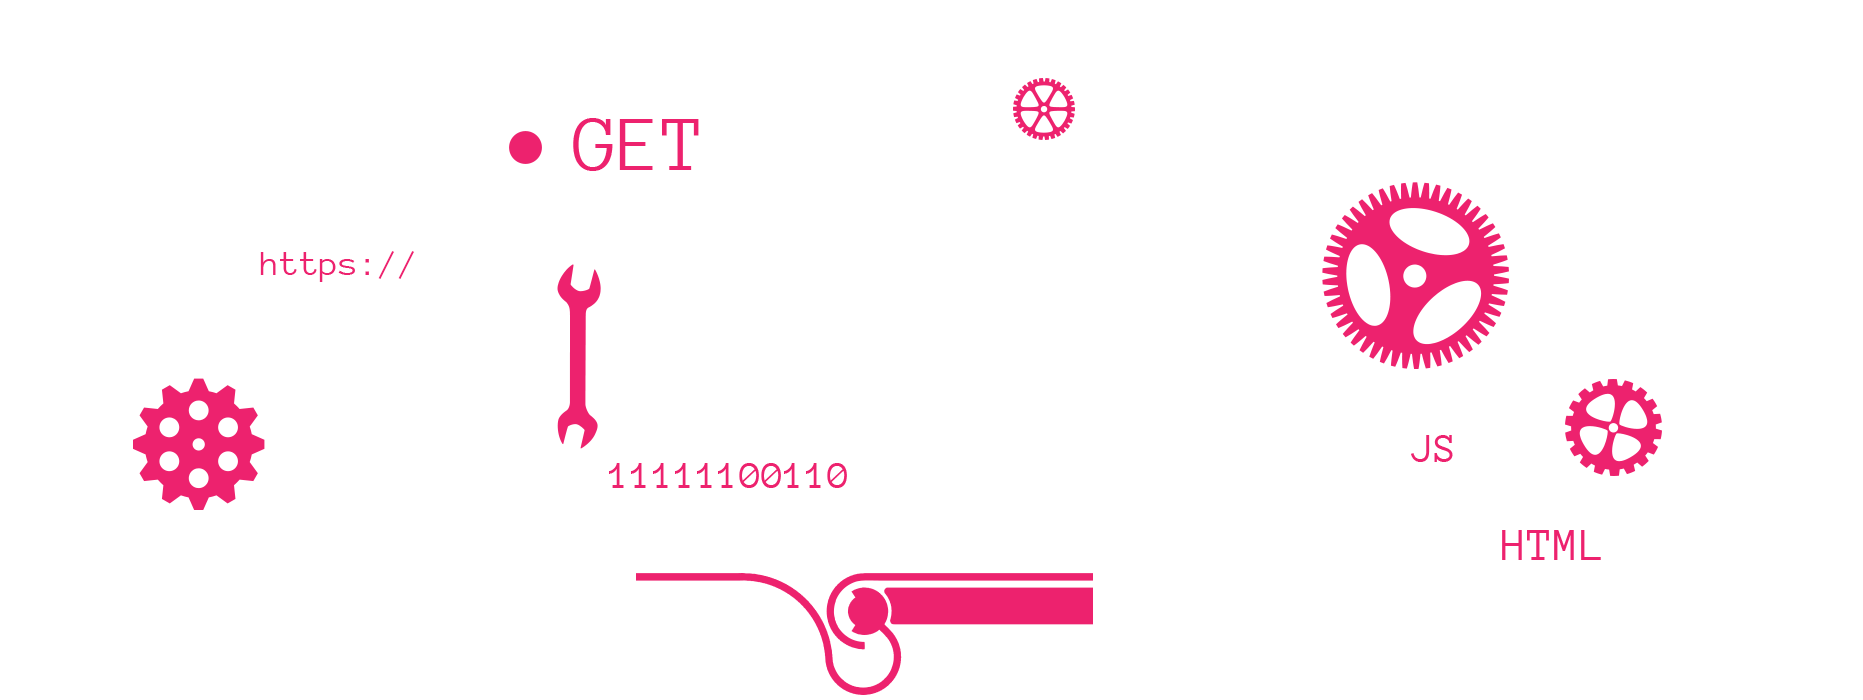
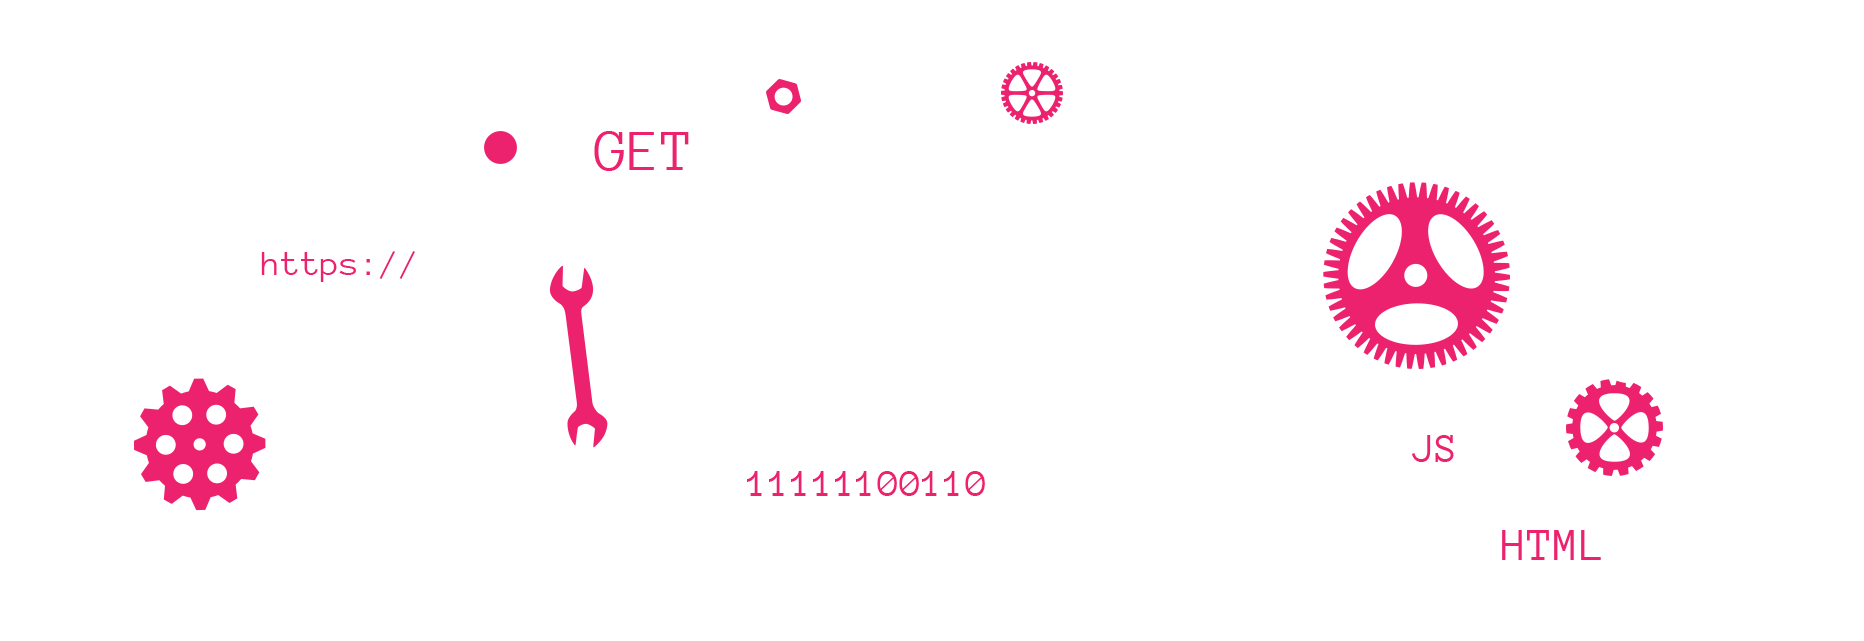
fixing top section images and divs

diff --git a/style.css b/style.css
@@ -1,17 +1,10 @@
-/* Dynamic Insertions */
 
-#user-location, #weather_phrase {
-    color: #ed236f;
-    font-weight: bold;
-}
-
-
-/*-------------------*/
 
 * {
     font-family: 'Anonymous Pro', monospace, Verdana, Geneva, Tahoma, sans-serif !important;
-    font-size: 19px;
 }
+
+
 
 a {
     color: #aed136 !important;
@@ -55,7 +48,7 @@ a:active {
 
 body {
     background-color: #50b0d5 !important;
-
+    font-size: 19px;
   }
 
 h3 {
@@ -221,35 +214,90 @@ section {
     }
 }
 
-/* image sections */
+
+
+/* top section art */
+
+
+/* Dynamic Insertions */
+
+.user-location, .weather_phrase {
+    color: #ed236f;
+    font-weight: bold;
+    font-size: 21px;
+}
+/*-------------------*/
+
+.top-section {
+    height: 490px;
+    width: 100%;
+}
+
+.top-section-container {
+    position: relative;
+    display: flex;
+    top: -40px;
+    align-items: center;
+    justify-content: center;
+    overflow: hidden;
+}
+
 
 .section1-img {
-    position: absolute;
-    left: -200px;
-    top: 5px;
-}
-
-.wrapper {
-    top: 0px;
     position: relative;
-    height: 200px;
+    height: 590px;
 }
 
-
+.user-greeting {
+    position: absolute;
+    width: 428;
+    top: 119px;
+    font-size: 23px !important;
+    background-color: #272822;
+    padding: 30px;
+    color: white !important;
+    height: 242px;
+}
 
 
 @media (max-width: 1000px) {
-    .section1-img {
-        width: 675px;
-        top: 60px;
+
+    .user-location, .weather_phrase {
+        color: #ed236f;
+        font-weight: bold;
+        font-size: 16px;
+    }
+
+    .top-section {
+        height: 360px;
+        width: 100%;
     }
     
-    .wrapper {
+    .top-section-container {
+        position: relative;
+        display: flex;
+        top: 10px;
         align-items: center;
-        text-align: center;
-        width: 100%;
-        top: 0px;
-        margin-left: 35%;
+        justify-content: center;
+        overflow: hidden;
+    }
+    
+    
+    .section1-img {
+        position: relative;
+        height: 380px;
+    }
+    
+    .user-greeting {
+        position: absolute;
+        width: 280px;
         height: 200px;
+        top: 70px;
+        font-size: 17px !important;
+        background-color: #272822;
+        padding: 15px;
+        color: white !important;
+    
     }
 }
+

diff --git a/index.html b/index.html
@@ -19,6 +19,7 @@
     <link rel="icon" type="image/png" sizes="32x32" href="/favicon-32x32.png">
     <link rel="icon" type="image/png" sizes="16x16" href="/favicon-16x16.png">
     <link rel="manifest" href="/site.webmanifest">
+    <script src="greeting.js"></script>
 
 </head>
 
@@ -73,21 +74,38 @@
     <!-- Greeting Text Starts-->
 
     <header>
-
-        <div class="blue-section content-box">
-
-            <div class="grid-top center-text">
-                <div id="user-greeting">
-                    <span id="avisitor"></span><span id="user-location">Hi There</span>!<span
-                        id="weather_phrase"></span> Welcome to my page and thank you
+        <!-- First section starts -->
+        <div class="top-section">
+            <div class="top-section-container">
+                <div id="user-greeting" class="user-greeting">
+                    <span id="avisitor" class="avisitor"></span><span id="user-location" class="user-location">Hi There</span>!<span
+                        id="weather_phrase" class="weather_phrase"></span> Welcome to my page and thank you
                     for stopping by and checking it out!
                 </div>
-                <div class="wrapper">
-                    <img class="section1-img" src="images/section1_backgtoundimg_1.gif" width="900px">
+                <div>
+                    <img id="image-top" class="section1-img" src="images/section1_backgtoundimg_1.png">
                 </div>
             </div>
-
         </div>
+        <!--First section ends-->
+
+        <script>
+            var imgTop = document.getElementById('image-top')
+            var imgs = ["section1_backgtoundimg_1.png","section1_backgtoundimg_2.png","section1_backgtoundimg_3.png","section1_backgtoundimg_4.png","section1_backgtoundimg_5.png"]
+            var counter = 1;
+            function switchImgTop() {
+                if(counter === 3) {
+                    counter = 0;
+                    imgTop.src = `images/${imgs[counter]}`;
+                    counter++;
+                } else {
+                    imgTop.src = `images/${imgs[counter]}`;
+                    counter++;
+                }
+            }
+
+            setInterval(switchImgTop, 500);
+        </script>
 
     </header>
 

diff --git a/greeting.js b/greeting.js
@@ -46,7 +46,7 @@ async function getCoordinates(ip) {
         let { text } = data.current.condition;
         if (city != null) {
           userLocation.innerHTML = ` <b>${city}</b>`;
-          visitor.innerHTML = ` Wow! A visitor from`;
+          visitor.innerHTML = `A visitor from`;
         }
         if(text == "Sunny") {
           weatherPhrase.innerHTML = " Today is a <b>sunny</b> day over there!";
